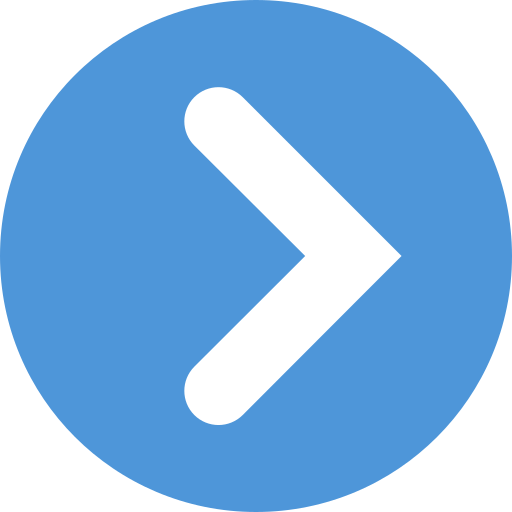
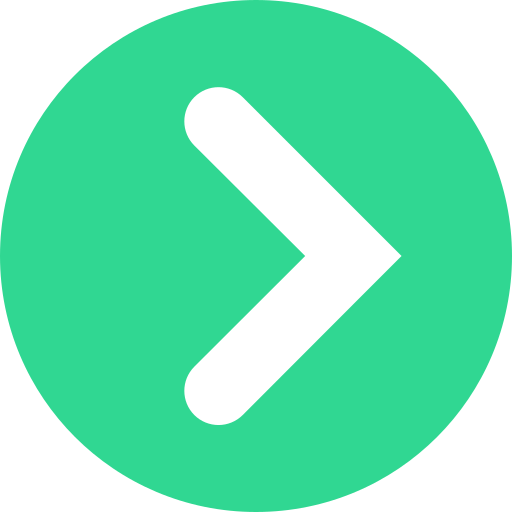
green button

diff --git a/src/screens/avni/navigation/more/maillist.tsx b/src/screens/avni/navigation/more/maillist.tsx
@@ -174,26 +174,26 @@ const maillist = () => {
               //onPress={() => deleteId(data?.id)}
               onPress={openModal}
               style={{
-               
-              
+
+
                 justifyContent: 'center',
                 height: 32,
                 alignItems: 'center',
 
-             
+
               }}
 
             //@ts-ignore
 
             >
               <Image
-              source={images.dustbin}
-              style={{
-                width: wr*28,
-                height: hr*28
-              }}
-              resizeMode='contain'
-            />
+                source={images.dustbin}
+                style={{
+                  width: wr * 28,
+                  height: hr * 28
+                }}
+                resizeMode='contain'
+              />
             </TouchableOpacity>
 
             <Modal
@@ -203,8 +203,8 @@ const maillist = () => {
               onRequestClose={closeModal}
             >
               <View style={{ flex: 1, justifyContent: 'center', alignItems: 'center', backgroundColor: 'rgba(0, 0, 0, 0.5)' }}>
-                <View style={{ backgroundColor: 'white', padding: 20, gap:8 }}>
-                  <Text style={{ ...FONTS.size17m}}>Are you sure you want to delete?</Text>
+                <View style={{ backgroundColor: 'white', padding: 20, gap: 8 }}>
+                  <Text style={{ ...FONTS.size17m }}>Are you sure you want to delete?</Text>
                   <View style={{ flexDirection: 'row', justifyContent: 'space-between' }}>
                     <TouchableOpacity
                       onPress={() => deleteId(data?.id)}
@@ -232,7 +232,7 @@ const maillist = () => {
                       onPress={closeModal}
 
                       style={{
-                        backgroundColor: '#30D792' ,
+                        backgroundColor: '#30D792',
                         borderRadius: 5,
                         justifyContent: 'center',
                         height: 32,
@@ -349,92 +349,92 @@ const maillist = () => {
         />
 
 
-<TouchableOpacity
- onPress={() => navigation.navigate('Google' as never)}
+        <TouchableOpacity
+          onPress={() => navigation.navigate('Google' as never)}
+          style={{
+            backgroundColor: '#cccccc',
+            borderRadius: 10,
+            flexDirection: 'row',
+            height: 142,
+            paddingTop: hr * 15,
+            paddingRight: wr * 5,
+            paddingBottom: hr * 8,
+            paddingLeft: wr * 15,
+            justifyContent: 'space-between',
+            marginTop: hr*10
+          }}
+
+        //@ts-ignore
+
+        >
+          <View>
+            <Text style={{
+              ...FONTS.paragraph,
+              color: '#fff'
+            }}>connect Your Gmail</Text>
+            <Text style={{
+              ...FONTS.size12m,
+              color: '#fff'
+            }}>consolidate all of your shopping{'\n'}into a single view</Text>
+            <View style={{ flexDirection: 'row', alignItems: 'center', marginTop: hr * 24 }}>
+
+              <Text style={{
+                ...FONTS.size24b,
+                color: '#30D792',
+
+              }}>add now </Text>
+              <Image
+                source={images.enter}
+                style={{
+                  width: wr * 26,
+                  height: hr * 26,
+
+                }}
+                resizeMode='contain'
+              />
+            </View>
+          </View>
+
+          <View style={{ gap: 15 }}>
+
+
+            <Image
+              source={images.link}
               style={{
-                backgroundColor: '#cccccc',
-                borderRadius: 10,
-                flexDirection: 'row',
-                height: 142,
-                paddingTop: hr * 15,
-                paddingRight: wr * 5,
-                paddingBottom: hr * 8,
-                paddingLeft: wr * 15,
-                justifyContent: 'space-between',
-                marginTop: 10
+                width: wr * 32,
+                height: hr * 32,
+                marginRight: wr * 80
               }}
-
-            //@ts-ignore
-
-            >
-              <View>
-                <Text style={{
-                  ...FONTS.paragraph,
-                  color: '#fff'
-                }}>connect Your Gmail</Text>
-                <Text style={{
-                  ...FONTS.size12m,
-                  color: '#fff'
-                }}>consolidate all of your shopping{'\n'}into a single view</Text>
-                <View style={{ flexDirection: 'row', alignItems: 'center',marginTop: hr * 24 }}>
-
-                  <Text style={{
-                    ...FONTS.size24b,
-                    color: '#4E96D9',
-                    
-                  }}>add now </Text>
-                  <Image
-                    source={images.enter}
-                    style={{
-                      width: wr * 26,
-                      height: hr * 26,
-
-                    }}
-                    resizeMode='contain'
-                  />
-                </View>
-              </View>
-
-              <View style={{ gap: 15 }}>
+              resizeMode='contain'
+            />
 
 
-                <Image
-                  source={images.link}
-                  style={{
-                    width: wr * 32,
-                    height: hr * 32,
-                    marginRight: wr * 80
-                  }}
-                  resizeMode='contain'
-                />
-
-
-                <Image
-                  source={images.gmail}
-                  style={{
-                    width: wr * 42,
-                    height: hr * 42,
-                    marginLeft: wr * 50,
-                    marginTop: hr * -35
-                  }}
-                  resizeMode='contain'
-                />
+            <Image
+              source={images.gmail}
+              style={{
+                width: wr * 42,
+                height: hr * 42,
+                marginLeft: wr * 50,
+                marginTop: hr * -35
+              }}
+              resizeMode='contain'
+            />
 
 
 
 
-                <Image
-                  source={images.green}
-                  style={{
-                    width: wr * 42,
-                    height: hr * 42,
-                    marginLeft: wr * 20
-                  }}
-                  resizeMode='contain'
-                />
-              </View>
+            <Image
+              source={images.green}
+              style={{
+                width: wr * 42,
+                height: hr * 42,
+                marginLeft: wr * 20
+              }}
+              resizeMode='contain'
+            />
+          </View>
 
-            </TouchableOpacity>
+        </TouchableOpacity>
       </View>
 
 

diff --git a/src/components/googlefq/Proceed.tsx b/src/components/googlefq/Proceed.tsx
@@ -140,8 +140,8 @@ const Proceed = (props: any) => {
                         <Text style={{
                             ...FONTS.h4,
                             color: COLORS.darker
-                        }}>Connect your google</Text>
-                        <Image style={{ height: 22, width: 22 }} source={icons.googleicon} resizeMode='contain' />
+                        }}>Connect your Gmail</Text>
+                        <Image style={{ height: 22, width: 22 }} source={images.gmail} resizeMode='contain' />
                     </TouchableOpacity>
                 </View>
             )
